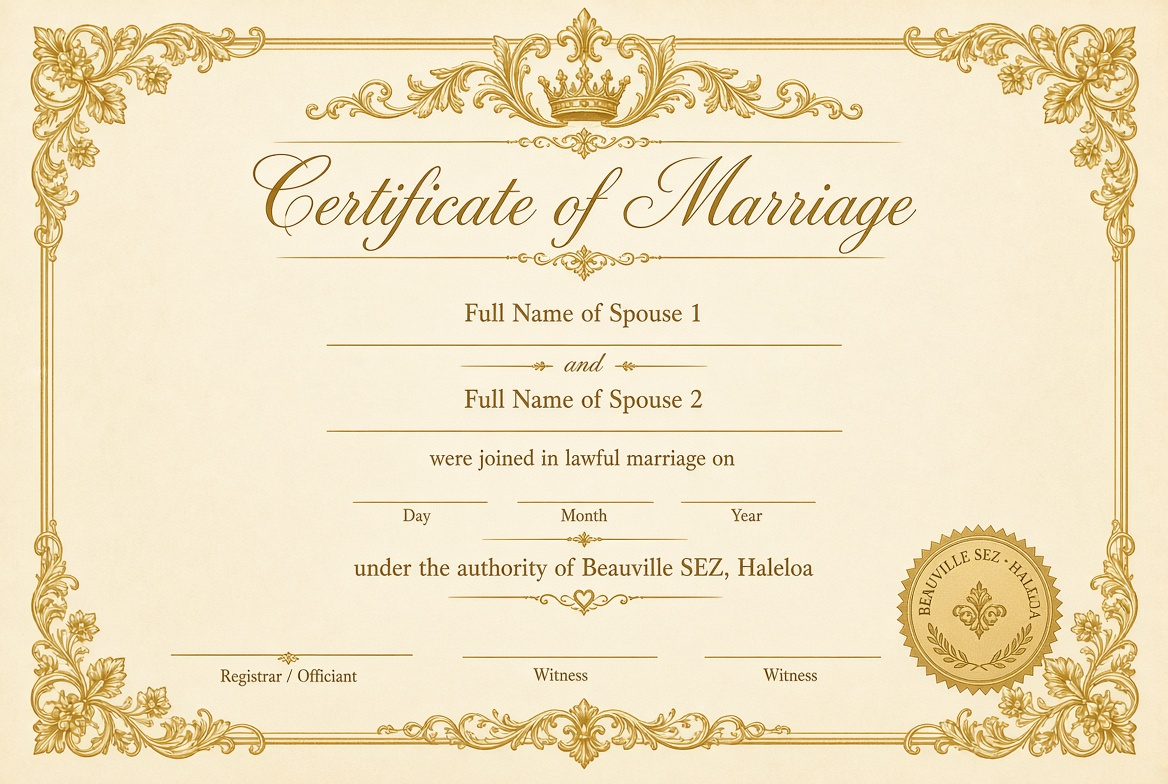
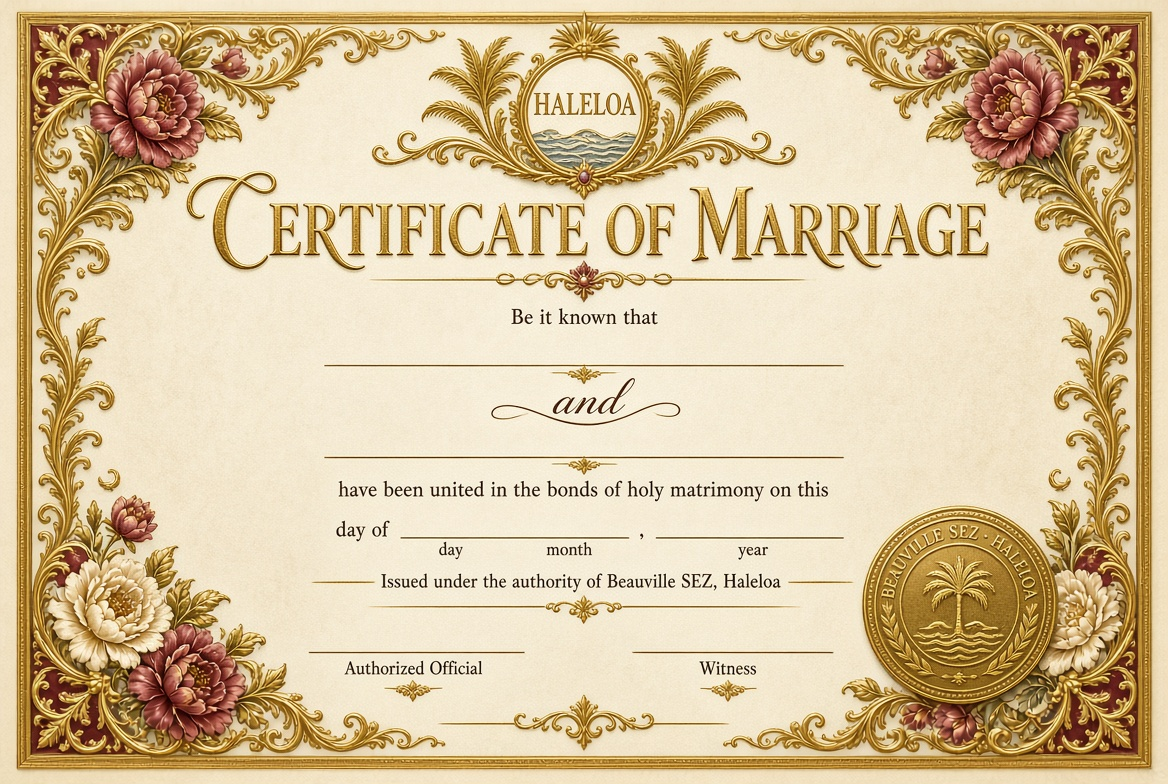
Add files via upload

diff --git a/login.html b/login.html
@@ -527,15 +527,15 @@
   const CERT_STYLES = {
     crown: {
       file: 'style-crown.jpg',
+      combineWitnesses: true,
       fields: {
-        name1: { top: '39.5%', left: '50%', width: '70%' },
-        name2: { top: '50%', left: '50%', width: '70%' },
-        day:   { top: '65%', left: '18%', width: '16%' },
-        month: { top: '65%', left: '48%', width: '16%' },
-        year:  { top: '65%', left: '77%', width: '16%' },
-        official:  { top: '86.5%', left: '20%', width: '22%' },
-        witness1:  { top: '86.5%', left: '50%', width: '22%' },
-        witness2:  { top: '86.5%', left: '80%', width: '22%' }
+        name1: { top: '32.4%', left: '50%', width: '68%' },
+        name2: { top: '46.6%', left: '50%', width: '68%' },
+        day:   { top: '58.3%', left: '19%', width: '15%' },
+        month: { top: '58.3%', left: '48%', width: '15%' },
+        year:  { top: '58.3%', left: '78%', width: '15%' },
+        official:  { top: '83.2%', left: '22%', width: '24%' },
+        witness1:  { top: '83.2%', left: '62%', width: '30%' }
       }
     },
     classic: {
@@ -554,14 +554,14 @@
     tropical: {
       file: 'style-tropical.jpg',
       fields: {
-        name1: { top: '41%', left: '50%', width: '55%' },
-        name2: { top: '46.5%', left: '50%', width: '55%' },
-        day:   { top: '52%', left: '38%', width: '14%' },
-        month: { top: '52%', left: '58%', width: '18%' },
-        year:  { top: '57.5%', left: '38%', width: '18%' },
-        official:  { top: '82%', left: '22%', width: '18%' },
-        witness1:  { top: '82%', left: '50%', width: '16%' },
-        witness2:  { top: '82%', left: '72%', width: '16%' }
+        name1: { top: '37.1%', left: '50%', width: '58%' },
+        name2: { top: '48.7%', left: '50%', width: '58%' },
+        day:   { top: '54.6%', left: '38%', width: '14%' },
+        month: { top: '54.6%', left: '62%', width: '20%' },
+        year:  { top: '59.9%', left: '50%', width: '22%' },
+        official:  { top: '83.2%', left: '20%', width: '18%' },
+        witness1:  { top: '83.2%', left: '50%', width: '18%' },
+        witness2:  { top: '83.2%', left: '80%', width: '18%' }
       }
     }
   };
@@ -575,15 +575,34 @@
     const visual = document.getElementById('certificateVisual');
     visual.style.backgroundImage = "url('" + style.file + "')";
 
-    Object.keys(style.fields).forEach(fieldName => {
-      const pos = style.fields[fieldName];
+    const allFieldNames = ['name1', 'name2', 'day', 'month', 'year', 'official', 'witness1', 'witness2'];
+
+    allFieldNames.forEach(fieldName => {
       const el = visual.querySelector('.cert-' + fieldName);
-      if (el) {
-        el.style.top = pos.top;
-        el.style.left = pos.left;
-        el.style.width = pos.width;
+      if (!el) return;
+
+      const pos = style.fields[fieldName];
+      if (!pos) {
+        el.style.display = 'none';
+        return;
       }
+      el.style.display = '';
+      el.style.top = pos.top;
+      el.style.left = pos.left;
+      el.style.width = pos.width;
     });
+
+    // Crown's design has a single witness line — combine both names there.
+    const witness1El = visual.querySelector('.cert-witness1');
+    if (witness1El) {
+      const w1 = witness1El.dataset.raw || '';
+      const w2 = (visual.querySelector('.cert-witness2') || {}).dataset ? visual.querySelector('.cert-witness2').dataset.raw : '';
+      if (style.combineWitnesses) {
+        witness1El.textContent = [w1, w2].filter(Boolean).join(' & ');
+      } else {
+        witness1El.textContent = w1;
+      }
+    }
 
     document.querySelectorAll('.cert-style-btn').forEach(btn => {
       btn.classList.toggle('active', btn.dataset.style === styleKey);
@@ -814,7 +833,9 @@
     document.getElementById('certYear').textContent = confirmedDate.getFullYear();
 
     document.getElementById('certWitness1').textContent = record.initiator_witness || '';
+    document.getElementById('certWitness1').dataset.raw = record.initiator_witness || '';
     document.getElementById('certWitness2').textContent = record.partner_witness || '';
+    document.getElementById('certWitness2').dataset.raw = record.partner_witness || '';
 
     const vowsContainer = document.getElementById('certVowsBelow');
     vowsContainer.innerHTML = '';
